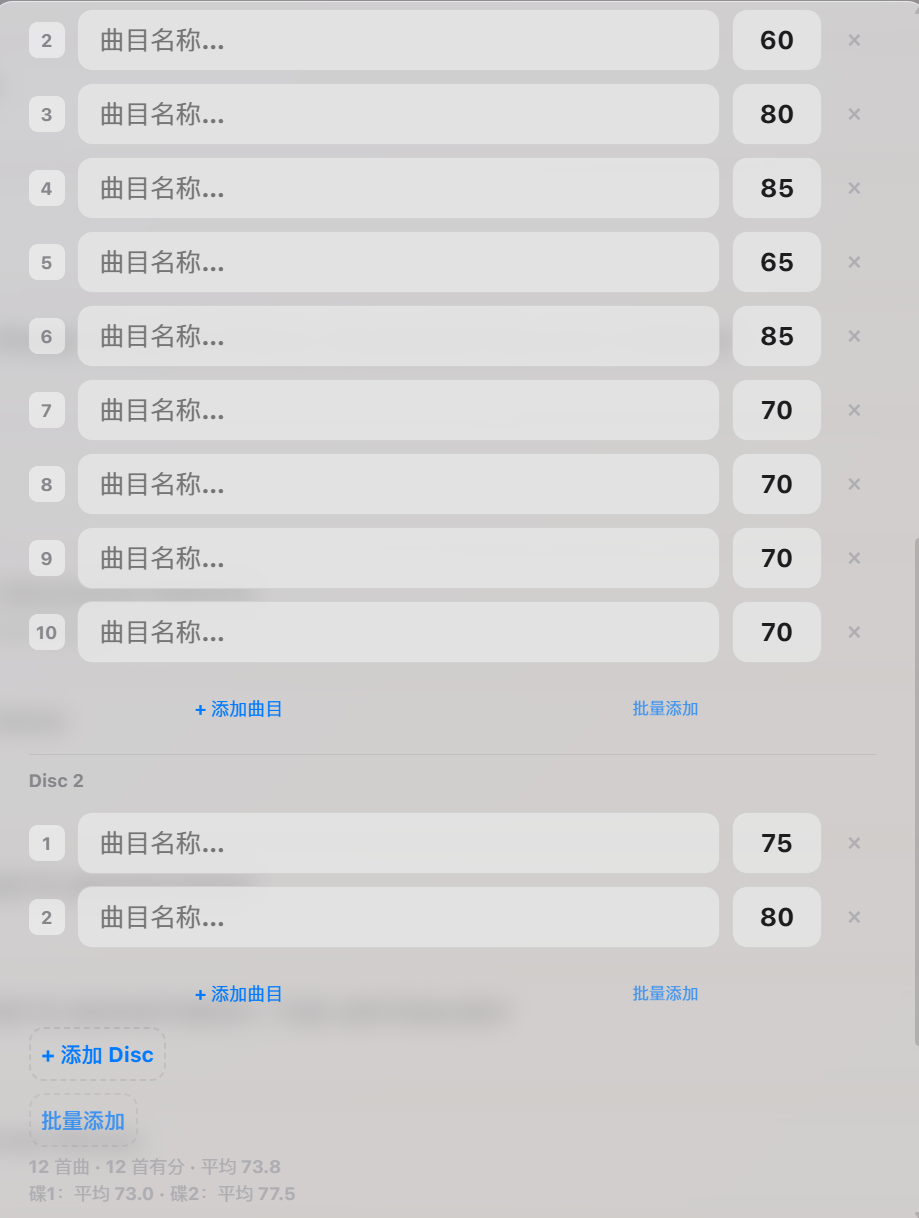
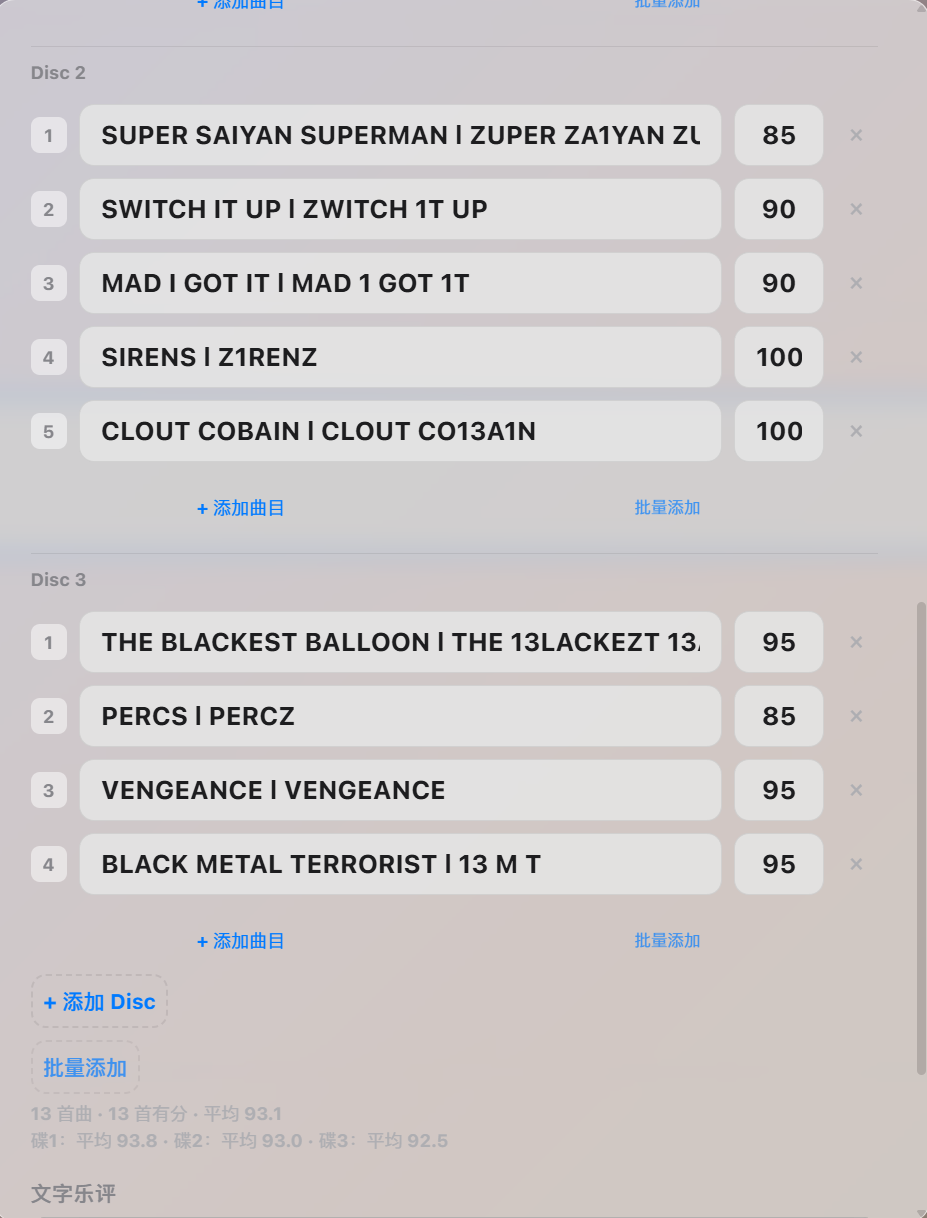
docs: expand track rating walkthrough

diff --git a/README.md b/README.md
@@ -69,14 +69,16 @@
 </p>
 <p align="center"><sub>年度平均分、相对柱状长度和有效条目数放在同一视图中比较</sub></p>
 
-一张专辑也不必只留下总分。编辑弹窗可以逐首记录曲目名称和分数，`NR` 表示已经听过但暂不评分；多碟专辑会分别计算每碟平均分，并在卡片上显示碟数和总曲目数。
+一张专辑也不必只留下总分。编辑弹窗按 Disc 整理曲目，每行都可以填写曲名和 `0–100` 分，暂不评分时可记为 `NR`，右侧的 `×` 可删除单首曲目。曲目区之后仍可继续填写整张作品的文字乐评。
 
 <p align="center">
   <a href="docs/screenshots/track-ratings.png">
     <img src="docs/screenshots/track-ratings.png" alt="逐曲评分与多碟管理" width="560">
   </a>
 </p>
-<p align="center"><sub>逐曲录入、批量补齐曲目数量、添加 Disc，并实时计算平均分</sub></p>
+<p align="center"><sub>曲名与逐曲评分、多碟分组、曲目增删、批量录入及分碟统计集中在同一编辑区</sub></p>
+
+每个 Disc 都有独立的“添加曲目”和“批量添加”：前者追加一行，后者按输入的目标数量补齐或从碟尾删减；“添加 Disc”用于建立下一碟，底部“批量添加”则快速调整当前最后一碟。最下方会实时汇总总曲目数、已评分数和全碟平均分，多碟作品还会并列显示每一碟的独立平均分；保存后，卡片同步显示碟数与总曲目数。
 
 ## 封面属于条目，也属于本地档案
 
